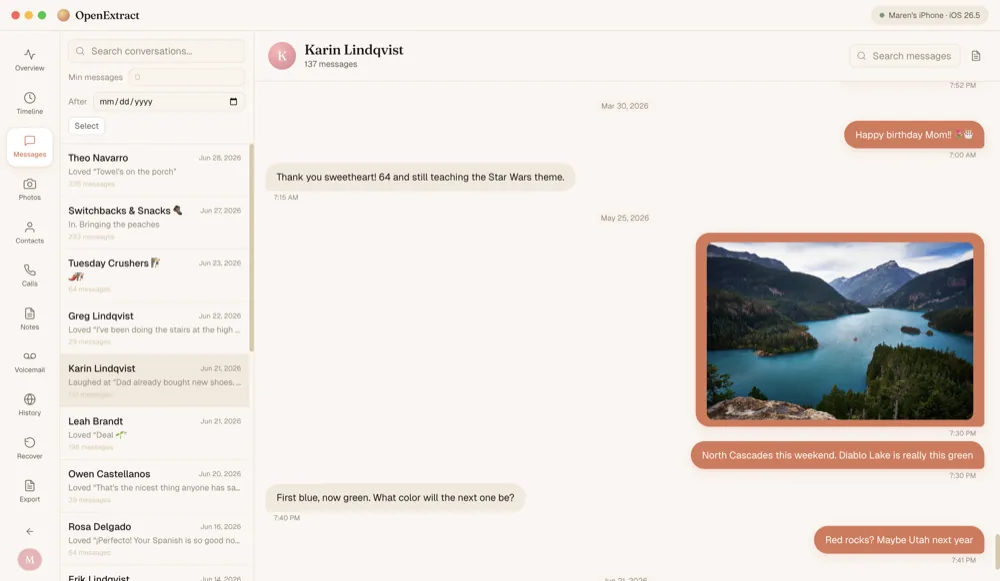
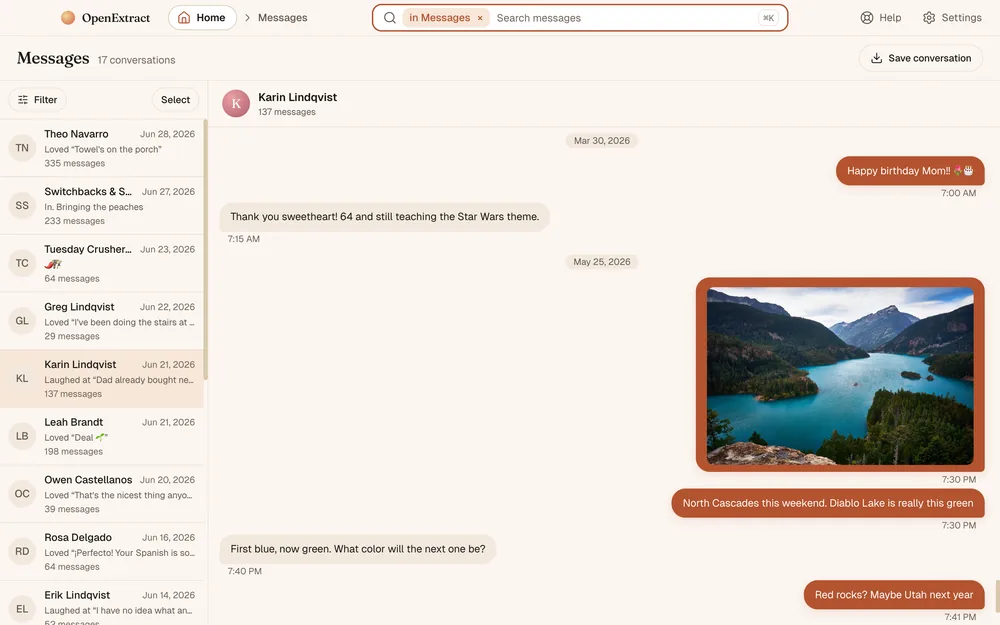
site: retake the screenshots in the 0.10.0 layout and update the copy around them
The site's app screenshots still showed the old icon rail, Overview, Contacts
and Browser history. Retake all of them on the synthetic Maren backup with the
run-openextract driver (throwaway profile, 1440x900): the home page, search,
a conversation opened at a search match, People, Address book, Messages,
group chat, Photos, an album, Calls, Voicemail, Notes, Web history, Timeline,
Year and Backup details.

- overview, contacts and history are renamed home, address-book and
  web-history; vercel.json redirects the old URLs so links to them, including
  the Flathub metainfo in v0.10.0, keep working.
- /screenshots shows 16 screens with new alt text and captions; the home page
  shows Search instead of Timeline and links to all 16; the Linux page shows
  the home page; JSON-LD screenshot points at home-2000.png.
- New shots are 1000x625 / 2000x1250, so width/height attributes change.
- README shows the home page and the same set of screens, and names Search,
  People, Calls and Address book in its feature list.
- Guides no longer hedge between versions: Save conversation, Save all,
  Recover deleted messages > Look for deleted messages, Messages > Select,
  and Backup details instead of a summary under Timeline.
- search-2000.png is for the Flathub listing, to be pointed at once this is
  live (the Flatpak check downloads every screenshot URL).

diff --git a/website/static/screenshots.html b/website/static/screenshots.html
@@ -5,13 +5,13 @@
   <meta name="viewport" content="width=device-width, initial-scale=1.0" />
   <meta name="theme-color" content="#faf6f1" />
   <title>Screenshots of OpenExtract, the free iPhone backup viewer</title>
-  <meta name="description" content="See OpenExtract's screens with a sample iPhone backup loaded: messages, photos, contacts, calls, notes, voicemail, Safari history and a timeline of everything." />
+  <meta name="description" content="See OpenExtract's screens with a sample iPhone backup loaded: the home page, search, messages, people, photos, the address book, calls, notes, voicemail, web history and a timeline of everything." />
   <link rel="canonical" href="https://www.openextract.app/screenshots" />
   <meta name="robots" content="index, follow, max-image-preview:large" />
   <meta property="og:type" content="website" />
   <meta property="og:url" content="https://www.openextract.app/screenshots" />
   <meta property="og:title" content="OpenExtract screenshots — a look inside" />
-  <meta property="og:description" content="Messages, photos, contacts, calls, notes, voicemail and more, from a sample iPhone backup." />
+  <meta property="og:description" content="Search, messages, people, photos, calls, notes, voicemail and more, from a sample iPhone backup." />
   <meta property="og:image" content="https://www.openextract.app/img/og-image.png" />
   <meta name="twitter:card" content="summary_large_image" />
   <link rel="icon" href="/favicon.ico" sizes="any" />
@@ -48,80 +48,115 @@
 
   <section class="gallery">
     <figure class="screen screen--wide">
-      <a class="screen__frame" href="/img/screens/overview-2000.webp">
-        <img src="/img/screens/overview-1000.webp" srcset="/img/screens/overview-1000.webp 1000w, /img/screens/overview-2000.webp 2000w" sizes="(max-width: 720px) calc(100vw - 48px), min(calc(100vw - 112px), 1088px)" width="1000" height="581" decoding="async" alt="OpenExtract's Overview of Maren's iPhone: 1,410 messages, 170 photos, 45 contacts, 166 calls, 25 notes and 9 voicemails, with her top conversations and photo stats." />
+      <a class="screen__frame" href="/img/screens/home-2000.webp">
+        <img src="/img/screens/home-1000.webp" srcset="/img/screens/home-1000.webp 1000w, /img/screens/home-2000.webp 2000w" sizes="(max-width: 720px) calc(100vw - 48px), min(calc(100vw - 112px), 1088px)" width="1000" height="625" decoding="async" alt="The home page for Maren's iPhone: tiles for 1,410 messages, 170 photos, 52 people, 45 address book cards, 166 calls, 25 notes and 9 voicemails, plus Web history, Timeline and Year, under a search box that runs across the top." />
       </a>
-      <figcaption><strong>Overview</strong>A count of everything in the backup, and who you message most.</figcaption>
+      <figcaption><strong>Home</strong>Everything in the backup on one page, most of it with a count. The box at the top searches all of it.</figcaption>
     </figure>
 
     <figure class="screen">
-      <a class="screen__frame" href="/img/screens/timeline-2000.webp">
-        <img src="/img/screens/timeline-1000.webp" srcset="/img/screens/timeline-1000.webp 1000w, /img/screens/timeline-2000.webp 2000w" sizes="(max-width: 720px) calc(100vw - 48px), 540px" width="1000" height="581" decoding="async" alt="The Timeline: messages, calls, photos, voicemails, notes and web visits in one list, newest first, with filters by type, person and date." />
+      <a class="screen__frame" href="/img/screens/search-2000.webp">
+        <img src="/img/screens/search-1000.webp" srcset="/img/screens/search-1000.webp 1000w, /img/screens/search-2000.webp 2000w" sizes="(max-width: 720px) calc(100vw - 48px), 540px" width="1000" height="625" decoding="async" alt="Search results for &ldquo;bread&rdquo; across the whole backup: 4 notes, 16 messages and 8 web pages, with the first note previewed on the right and every match highlighted." />
       </a>
-      <figcaption><strong>Timeline</strong>Messages, calls, photos, voicemails, notes and web visits in one list, by date. Filter by type, person or date range.</figcaption>
+      <figcaption><strong>Search</strong>One box searches messages, notes, calls, voicemail, people and web history at once. Pick a result to preview it.</figcaption>
+    </figure>
+
+    <figure class="screen">
+      <a class="screen__frame" href="/img/screens/search-match-2000.webp">
+        <img src="/img/screens/search-match-1000.webp" srcset="/img/screens/search-match-1000.webp 1000w, /img/screens/search-match-2000.webp 2000w" sizes="(max-width: 720px) calc(100vw - 48px), 540px" width="1000" height="625" decoding="async" alt="A conversation opened from a search result at the matching message, &ldquo;MAREN. IT'S A BREAD OVEN&rdquo;, with the word highlighted and arrows to step through the 7 matches in the thread." />
+      </a>
+      <figcaption><strong>Straight to the message</strong>A result opens the conversation at that exact message. Step through the other matches with the arrows.</figcaption>
+    </figure>
+
+    <figure class="screen">
+      <a class="screen__frame" href="/img/screens/people-2000.webp">
+        <img src="/img/screens/people-1000.webp" srcset="/img/screens/people-1000.webp 1000w, /img/screens/people-2000.webp 2000w" sizes="(max-width: 720px) calc(100vw - 48px), 540px" width="1000" height="625" loading="lazy" decoding="async" alt="Erik Lindqvist's page in People: 45 messages, 9 calls and a voicemail in one list by date, with a link to his card in the address book." />
+      </a>
+      <figcaption><strong>People</strong>Everyone you were in touch with, most in touch first. Open a person to see your messages, calls and voicemails with them together.</figcaption>
+    </figure>
+
+    <figure class="screen">
+      <a class="screen__frame" href="/img/screens/address-book-2000.webp">
+        <img src="/img/screens/address-book-1000.webp" srcset="/img/screens/address-book-1000.webp 1000w, /img/screens/address-book-2000.webp 2000w" sizes="(max-width: 720px) calc(100vw - 48px), 540px" width="1000" height="625" loading="lazy" decoding="async" alt="The Address book: 45 saved cards with names, companies, phone numbers and emails, each linking to that person&rsquo;s history." />
+      </a>
+      <figcaption><strong>Address book</strong>The saved contact cards, each linked to its history. Save them as vCard or CSV.</figcaption>
     </figure>
 
     <figure class="screen">
       <a class="screen__frame" href="/img/screens/messages-2000.webp">
-        <img src="/img/screens/messages-1000.webp" srcset="/img/screens/messages-1000.webp 1000w, /img/screens/messages-2000.webp 2000w" sizes="(max-width: 720px) calc(100vw - 48px), 540px" width="1000" height="581" loading="lazy" decoding="async" alt="A text conversation with Maren's mom, including a photo of Diablo Lake sent in the thread." />
+        <img src="/img/screens/messages-1000.webp" srcset="/img/screens/messages-1000.webp 1000w, /img/screens/messages-2000.webp 2000w" sizes="(max-width: 720px) calc(100vw - 48px), 540px" width="1000" height="625" loading="lazy" decoding="async" alt="A text conversation with Maren's mom, including a photo of Diablo Lake sent in the thread." />
       </a>
       <figcaption><strong>Messages</strong>Read any conversation, with the photos that were sent in it.</figcaption>
     </figure>
 
     <figure class="screen">
       <a class="screen__frame" href="/img/screens/group-chat-2000.webp">
-        <img src="/img/screens/group-chat-1000.webp" srcset="/img/screens/group-chat-1000.webp 1000w, /img/screens/group-chat-2000.webp 2000w" sizes="(max-width: 720px) calc(100vw - 48px), 540px" width="1000" height="581" loading="lazy" decoding="async" alt="A group chat called Switchbacks &amp; Snacks, with each message labeled by who sent it and a mountain photo in the thread." />
+        <img src="/img/screens/group-chat-1000.webp" srcset="/img/screens/group-chat-1000.webp 1000w, /img/screens/group-chat-2000.webp 2000w" sizes="(max-width: 720px) calc(100vw - 48px), 540px" width="1000" height="625" loading="lazy" decoding="async" alt="A group chat called Switchbacks &amp; Snacks, with other people's messages labeled by who sent them and a mountain photo in the thread." />
       </a>
       <figcaption><strong>Group chats</strong>Group threads show who said what.</figcaption>
     </figure>
 
     <figure class="screen">
       <a class="screen__frame" href="/img/screens/photos-2000.webp">
-        <img src="/img/screens/photos-1000.webp" srcset="/img/screens/photos-1000.webp 1000w, /img/screens/photos-2000.webp 2000w" sizes="(max-width: 720px) calc(100vw - 48px), 540px" width="1000" height="581" loading="lazy" decoding="async" alt="The Photos screen: a grid of landscape photos with the backup's albums listed alongside." />
+        <img src="/img/screens/photos-1000.webp" srcset="/img/screens/photos-1000.webp 1000w, /img/screens/photos-2000.webp 2000w" sizes="(max-width: 720px) calc(100vw - 48px), 540px" width="1000" height="625" loading="lazy" decoding="async" alt="The Photos screen: a grid of landscape photos with favorites starred and the backup's albums listed alongside." />
       </a>
       <figcaption><strong>Photos</strong>The whole camera roll, with favorites starred.</figcaption>
     </figure>
 
     <figure class="screen">
       <a class="screen__frame" href="/img/screens/album-2000.webp">
-        <img src="/img/screens/album-1000.webp" srcset="/img/screens/album-1000.webp 1000w, /img/screens/album-2000.webp 2000w" sizes="(max-width: 720px) calc(100vw - 48px), 540px" width="1000" height="581" loading="lazy" decoding="async" alt="The Yellowstone 2025 album open, showing 45 photos of hot springs, bison and waterfalls." />
+        <img src="/img/screens/album-1000.webp" srcset="/img/screens/album-1000.webp 1000w, /img/screens/album-2000.webp 2000w" sizes="(max-width: 720px) calc(100vw - 48px), 540px" width="1000" height="625" loading="lazy" decoding="async" alt="The Yellowstone 2025 album open, showing 45 photos of hot springs, bison and waterfalls." />
       </a>
       <figcaption><strong>Albums</strong>The albums you made on your phone, kept as they were.</figcaption>
     </figure>
 
     <figure class="screen">
-      <a class="screen__frame" href="/img/screens/contacts-2000.webp">
-        <img src="/img/screens/contacts-1000.webp" srcset="/img/screens/contacts-1000.webp 1000w, /img/screens/contacts-2000.webp 2000w" sizes="(max-width: 720px) calc(100vw - 48px), 540px" width="1000" height="581" loading="lazy" decoding="async" alt="The Contacts screen: cards with each person's name, company, phone number and email." />
+      <a class="screen__frame" href="/img/screens/calls-2000.webp">
+        <img src="/img/screens/calls-1000.webp" srcset="/img/screens/calls-1000.webp 1000w, /img/screens/calls-2000.webp 2000w" sizes="(max-width: 720px) calc(100vw - 48px), 540px" width="1000" height="625" loading="lazy" decoding="async" alt="The Calls screen: a table of calls with who, when, how long, whether it was incoming, outgoing or missed, and the app used." />
       </a>
-      <figcaption><strong>Contacts</strong>The address book, with an Export vCard button.</figcaption>
+      <figcaption><strong>Calls</strong>Every call with its date, length and direction, including FaceTime. Save the list as a spreadsheet (CSV).</figcaption>
     </figure>
 
     <figure class="screen">
-      <a class="screen__frame" href="/img/screens/calls-2000.webp">
-        <img src="/img/screens/calls-1000.webp" srcset="/img/screens/calls-1000.webp 1000w, /img/screens/calls-2000.webp 2000w" sizes="(max-width: 720px) calc(100vw - 48px), 540px" width="1000" height="581" loading="lazy" decoding="async" alt="The Calls screen: a table of calls with contact, date, duration, whether it was incoming, outgoing or missed, and the app used." />
+      <a class="screen__frame" href="/img/screens/voicemail-2000.webp">
+        <img src="/img/screens/voicemail-1000.webp" srcset="/img/screens/voicemail-1000.webp 1000w, /img/screens/voicemail-2000.webp 2000w" sizes="(max-width: 720px) calc(100vw - 48px), 540px" width="1000" height="625" loading="lazy" decoding="async" alt="The Voicemail screen: nine saved voicemails, each with the caller, date and length, and one opened to play." />
       </a>
-      <figcaption><strong>Call history</strong>Every call with its date, length and direction, including FaceTime. Export as CSV.</figcaption>
+      <figcaption><strong>Voicemail</strong>Saved voicemails with who called, when, and for how long. Play them or save the audio.</figcaption>
     </figure>
 
     <figure class="screen">
       <a class="screen__frame" href="/img/screens/notes-2000.webp">
-        <img src="/img/screens/notes-1000.webp" srcset="/img/screens/notes-1000.webp 1000w, /img/screens/notes-2000.webp 2000w" sizes="(max-width: 720px) calc(100vw - 48px), 540px" width="1000" height="581" loading="lazy" decoding="async" alt="The Notes screen with a note called National parks open, listing parks visited and planned." />
+        <img src="/img/screens/notes-1000.webp" srcset="/img/screens/notes-1000.webp 1000w, /img/screens/notes-2000.webp 2000w" sizes="(max-width: 720px) calc(100vw - 48px), 540px" width="1000" height="625" loading="lazy" decoding="async" alt="The Notes screen with a note called National parks open, listing parks visited and planned." />
       </a>
       <figcaption><strong>Notes</strong>Read any Apple Note and save it as text or PDF.</figcaption>
     </figure>
 
     <figure class="screen">
-      <a class="screen__frame" href="/img/screens/voicemail-2000.webp">
-        <img src="/img/screens/voicemail-1000.webp" srcset="/img/screens/voicemail-1000.webp 1000w, /img/screens/voicemail-2000.webp 2000w" sizes="(max-width: 720px) calc(100vw - 48px), 540px" width="1000" height="581" loading="lazy" decoding="async" alt="The Voicemail screen: nine saved voicemails, each with the caller, date and length." />
+      <a class="screen__frame" href="/img/screens/web-history-2000.webp">
+        <img src="/img/screens/web-history-1000.webp" srcset="/img/screens/web-history-1000.webp 1000w, /img/screens/web-history-2000.webp 2000w" sizes="(max-width: 720px) calc(100vw - 48px), 540px" width="1000" height="625" loading="lazy" decoding="async" alt="Web history: 357 page visits to 48 sites, with a bar chart of the most visited sites." />
       </a>
-      <figcaption><strong>Voicemail</strong>Saved voicemails with who called, when, and for how long. Play them or export the audio.</figcaption>
+      <figcaption><strong>Web history</strong>Pages visited in Safari and Firefox, the sites visited most, and the hours you browse.</figcaption>
     </figure>
 
     <figure class="screen">
-      <a class="screen__frame" href="/img/screens/history-2000.webp">
-        <img src="/img/screens/history-1000.webp" srcset="/img/screens/history-1000.webp 1000w, /img/screens/history-2000.webp 2000w" sizes="(max-width: 720px) calc(100vw - 48px), 540px" width="1000" height="581" loading="lazy" decoding="async" alt="Browser History: 357 Safari visits to 48 sites, with a bar chart of the most visited sites." />
+      <a class="screen__frame" href="/img/screens/timeline-2000.webp">
+        <img src="/img/screens/timeline-1000.webp" srcset="/img/screens/timeline-1000.webp 1000w, /img/screens/timeline-2000.webp 2000w" sizes="(max-width: 720px) calc(100vw - 48px), 540px" width="1000" height="625" loading="lazy" decoding="async" alt="The Timeline: 1,940 messages, calls, photos, voicemails, notes and web visits in one list, newest first, with filters by type, person and date." />
       </a>
-      <figcaption><strong>Browser history</strong>Safari visits, the sites visited most, and the hours you browse.</figcaption>
+      <figcaption><strong>Timeline</strong>Messages, calls, photos, voicemails, notes and web visits in one list, by date. Filter by type, person or date range.</figcaption>
+    </figure>
+
+    <figure class="screen">
+      <a class="screen__frame" href="/img/screens/year-2000.webp">
+        <img src="/img/screens/year-1000.webp" srcset="/img/screens/year-1000.webp 1000w, /img/screens/year-2000.webp 2000w" sizes="(max-width: 720px) calc(100vw - 48px), 540px" width="1000" height="625" loading="lazy" decoding="async" alt="The Year view for 2026: one square per day, darker on busier days, with filters by type and person." />
+      </a>
+      <figcaption><strong>Year</strong>A whole year at a glance, one square per day. Click a day to open it in the Timeline.</figcaption>
+    </figure>
+
+    <figure class="screen screen--wide">
+      <a class="screen__frame" href="/img/screens/details-2000.webp">
+        <img src="/img/screens/details-1000.webp" srcset="/img/screens/details-1000.webp 1000w, /img/screens/details-2000.webp 2000w" sizes="(max-width: 720px) calc(100vw - 48px), min(calc(100vw - 112px), 1088px)" width="1000" height="625" loading="lazy" decoding="async" alt="Backup details for Maren's iPhone: counts of messages, photos, address book cards, calls, notes and voicemails, messages sent and received, her top conversations, busiest day and photo stats." />
+      </a>
+      <figcaption><strong>Backup details</strong>The numbers behind the backup: what it holds, who you message most, and when.</figcaption>
     </figure>
   </section>
 

diff --git a/website/static/index.html b/website/static/index.html
@@ -42,7 +42,7 @@
     "operatingSystem": "Windows 10, Windows 11, macOS (Apple Silicon), Linux",
     "url": "https://www.openextract.app/",
     "image": "https://www.openextract.app/img/og-image.png",
-    "screenshot": "https://www.openextract.app/img/screens/overview-2000.png",
+    "screenshot": "https://www.openextract.app/img/screens/home-2000.png",
     "downloadUrl": "https://github.com/charleswest775/openextract/releases",
     "license": "https://opensource.org/licenses/MIT",
     "isAccessibleForFree": true,
@@ -240,31 +240,31 @@
       <div class="screens__lede">Real screens from OpenExtract, opened on a sample backup. Maren isn't a real person, and her photos are public domain.</div>
     </div>
     <figure class="screen">
-      <a class="screen__frame" href="/img/screens/overview-2000.webp">
-        <img src="/img/screens/overview-1000.webp" srcset="/img/screens/overview-1000.webp 1000w, /img/screens/overview-2000.webp 2000w" sizes="(max-width: 720px) calc(100vw - 48px), calc(100vw - 112px)" width="1000" height="581" loading="lazy" decoding="async" alt="OpenExtract's Overview of Maren's iPhone: 1,410 messages, 170 photos, 45 contacts, 166 calls, 25 notes and 9 voicemails, with her top conversations and photo stats." />
+      <a class="screen__frame" href="/img/screens/home-2000.webp">
+        <img src="/img/screens/home-1000.webp" srcset="/img/screens/home-1000.webp 1000w, /img/screens/home-2000.webp 2000w" sizes="(max-width: 720px) calc(100vw - 48px), calc(100vw - 112px)" width="1000" height="625" loading="lazy" decoding="async" alt="The home page for Maren's iPhone: tiles for 1,410 messages, 170 photos, 52 people, 45 address book cards, 166 calls, 25 notes and 9 voicemails, plus Web history, Timeline and Year, under a search box that runs across the top." />
       </a>
     </figure>
     <div class="screens__grid">
       <figure class="screen">
+        <a class="screen__frame" href="/img/screens/search-2000.webp">
+          <img src="/img/screens/search-1000.webp" srcset="/img/screens/search-1000.webp 1000w, /img/screens/search-2000.webp 2000w" sizes="(max-width: 1024px) calc(100vw - 112px), 33vw" width="1000" height="625" loading="lazy" decoding="async" alt="Search results for &ldquo;bread&rdquo; across the whole backup: notes, messages and web pages, with the first note previewed and every match highlighted." />
+        </a>
+        <figcaption><strong>Search</strong>One box searches messages, notes, calls, voicemail and more.</figcaption>
+      </figure>
+      <figure class="screen">
         <a class="screen__frame" href="/img/screens/messages-2000.webp">
-          <img src="/img/screens/messages-1000.webp" srcset="/img/screens/messages-1000.webp 1000w, /img/screens/messages-2000.webp 2000w" sizes="(max-width: 1024px) calc(100vw - 112px), 33vw" width="1000" height="581" loading="lazy" decoding="async" alt="A text conversation with Maren's mom, including a photo of Diablo Lake sent in the thread." />
+          <img src="/img/screens/messages-1000.webp" srcset="/img/screens/messages-1000.webp 1000w, /img/screens/messages-2000.webp 2000w" sizes="(max-width: 1024px) calc(100vw - 112px), 33vw" width="1000" height="625" loading="lazy" decoding="async" alt="A text conversation with Maren's mom, including a photo of Diablo Lake sent in the thread." />
         </a>
         <figcaption><strong>Messages</strong>Every conversation, with the photos sent in it.</figcaption>
       </figure>
       <figure class="screen">
         <a class="screen__frame" href="/img/screens/photos-2000.webp">
-          <img src="/img/screens/photos-1000.webp" srcset="/img/screens/photos-1000.webp 1000w, /img/screens/photos-2000.webp 2000w" sizes="(max-width: 1024px) calc(100vw - 112px), 33vw" width="1000" height="581" loading="lazy" decoding="async" alt="The Photos screen: a grid of landscape photos with the backup's albums listed alongside." />
+          <img src="/img/screens/photos-1000.webp" srcset="/img/screens/photos-1000.webp 1000w, /img/screens/photos-2000.webp 2000w" sizes="(max-width: 1024px) calc(100vw - 112px), 33vw" width="1000" height="625" loading="lazy" decoding="async" alt="The Photos screen: a grid of landscape photos with favorites starred and the backup's albums listed alongside." />
         </a>
         <figcaption><strong>Photos</strong>The whole camera roll, sorted into the albums you made.</figcaption>
       </figure>
-      <figure class="screen">
-        <a class="screen__frame" href="/img/screens/timeline-2000.webp">
-          <img src="/img/screens/timeline-1000.webp" srcset="/img/screens/timeline-1000.webp 1000w, /img/screens/timeline-2000.webp 2000w" sizes="(max-width: 1024px) calc(100vw - 112px), 33vw" width="1000" height="581" loading="lazy" decoding="async" alt="The Timeline: messages, calls, photos, voicemails, notes and web visits in one list, newest first." />
-        </a>
-        <figcaption><strong>Timeline</strong>Messages, calls, photos and more in one list, by date.</figcaption>
-      </figure>
     </div>
-    <a class="screens__more" href="/screenshots">See all 11 screens →</a>
+    <a class="screens__more" href="/screenshots">See all 16 screens →</a>
   </section>
 
   <section class="how">

diff --git a/website/static/use-cases/iphone-backup-extractor-linux.html b/website/static/use-cases/iphone-backup-extractor-linux.html
@@ -43,7 +43,7 @@
       "applicationSubCategory": "DataExtraction",
       "operatingSystem": "Linux (x86-64): .deb for Ubuntu 22.04+ and Debian 12+, AppImage for other distributions",
       "url": "https://www.openextract.app/",
-      "screenshot": "https://www.openextract.app/img/screens/overview-2000.png",
+      "screenshot": "https://www.openextract.app/img/screens/home-2000.png",
       "downloadUrl": "https://github.com/charleswest775/openextract/releases",
       "license": "https://opensource.org/licenses/MIT",
       "isAccessibleForFree": true,
@@ -86,10 +86,10 @@
       <p>Most iPhone tools stop at Mac and Windows. iMazing's own <a href="https://imazing.com/faq/general-information">FAQ</a> calls it "an app for macOS and Windows", and its <a href="https://imazing.com/tech-specs">tech specs</a> list no Linux version. If Linux is the computer you use, that leaves you looking for something else.</p>
       <p>OpenExtract builds for Linux with every release. It's the same app as on Mac and Windows, with the same screens and exports, and the parsing engine's tests run on Linux, macOS and Windows on every change.</p>
       <figure class="screen">
-        <a class="screen__frame" href="/img/screens/overview-2000.webp">
-          <img src="/img/screens/overview-1000.webp" srcset="/img/screens/overview-1000.webp 1000w, /img/screens/overview-2000.webp 2000w" sizes="(max-width: 720px) calc(100vw - 48px), 720px" width="1000" height="581" loading="lazy" decoding="async" alt="OpenExtract's Overview of a sample iPhone backup: counts of messages, photos, contacts, calls, notes and voicemails, with the top conversations." />
+        <a class="screen__frame" href="/img/screens/home-2000.webp">
+          <img src="/img/screens/home-1000.webp" srcset="/img/screens/home-1000.webp 1000w, /img/screens/home-2000.webp 2000w" sizes="(max-width: 720px) calc(100vw - 48px), 720px" width="1000" height="625" loading="lazy" decoding="async" alt="The home page of a sample iPhone backup in OpenExtract: tiles with counts of messages, photos, people, address book cards, calls, notes and voicemails, under a search box for the whole backup." />
         </a>
-        <figcaption><strong>The Overview of a backup</strong>A sample backup in OpenExtract. <a href="/screenshots">See every screen</a>.</figcaption>
+        <figcaption><strong>A backup's home page</strong>A sample backup in OpenExtract. <a href="/screenshots">See every screen</a>.</figcaption>
       </figure>
 
       <h2>Install it</h2>

diff --git a/website/static/use-cases/free-iphone-backup-viewer.html b/website/static/use-cases/free-iphone-backup-viewer.html
@@ -43,7 +43,7 @@
       "applicationSubCategory": "DataExtraction",
       "operatingSystem": "Windows 10, Windows 11, macOS (Apple Silicon), Linux",
       "url": "https://www.openextract.app/",
-      "screenshot": "https://www.openextract.app/img/screens/overview-2000.png",
+      "screenshot": "https://www.openextract.app/img/screens/home-2000.png",
       "downloadUrl": "https://github.com/charleswest775/openextract/releases",
       "license": "https://opensource.org/licenses/MIT",
       "isAccessibleForFree": true,
@@ -87,7 +87,7 @@
       <p>OpenExtract reads that index and puts the backup back together, so you see it much the way you saw it on the phone: conversations as chat bubbles, photos in their albums, voicemails you can play.</p>
       <figure class="screen">
         <a class="screen__frame" href="/img/screens/timeline-2000.webp">
-          <img src="/img/screens/timeline-1000.webp" srcset="/img/screens/timeline-1000.webp 1000w, /img/screens/timeline-2000.webp 2000w" sizes="(max-width: 720px) calc(100vw - 48px), 720px" width="1000" height="581" loading="lazy" decoding="async" alt="The Timeline in OpenExtract: messages, calls, photos, voicemails, notes and web visits from a sample backup in one list, newest first." />
+          <img src="/img/screens/timeline-1000.webp" srcset="/img/screens/timeline-1000.webp 1000w, /img/screens/timeline-2000.webp 2000w" sizes="(max-width: 720px) calc(100vw - 48px), 720px" width="1000" height="625" loading="lazy" decoding="async" alt="The Timeline in OpenExtract: messages, calls, photos, voicemails, notes and web visits from a sample backup in one list, newest first." />
         </a>
         <figcaption><strong>The Timeline</strong>Everything in a sample backup, in one list by date. <a href="/screenshots">See every screen</a>.</figcaption>
       </figure>

diff --git a/website/static/use-cases/save-voicemails-from-iphone-backup.html b/website/static/use-cases/save-voicemails-from-iphone-backup.html
@@ -47,7 +47,7 @@
       "applicationSubCategory": "DataExtraction",
       "operatingSystem": "Windows 10, Windows 11, macOS (Apple Silicon), Linux",
       "url": "https://www.openextract.app/",
-      "screenshot": "https://www.openextract.app/img/screens/overview-2000.png",
+      "screenshot": "https://www.openextract.app/img/screens/home-2000.png",
       "downloadUrl": "https://github.com/charleswest775/openextract/releases",
       "license": "https://opensource.org/licenses/MIT",
       "isAccessibleForFree": true,
@@ -185,7 +185,7 @@
       <div class="uc-step__num" style="color: var(--coral);">05</div>
       <div>
         <h2>Save them to a folder</h2>
-        <p>At the top right of the Voicemail screen, click the button that saves them all (<strong>Export audio</strong> or <strong>Save all</strong>, depending on your version) and choose a folder. OpenExtract saves an <code>audio</code> folder with one file per voicemail, named with the caller and the date, and a <code>voicemails.csv</code> list with the date, caller and length of each one. The dates in the file names and the list are in UTC, so a voicemail left in the evening can show the next day's date.</p>
+        <p>At the top right of the Voicemail screen, click <strong>Save all</strong> and choose a folder. OpenExtract saves an <code>audio</code> folder with one file per voicemail, named with the caller and the date, and a <code>voicemails.csv</code> list with the date, caller and length of each one. The dates in the file names and the list are in UTC, so a voicemail left in the evening can show the next day's date.</p>
       </div>
     </div>
     <div class="uc-step">

diff --git a/website/static/use-cases/print-text-messages-for-court.html b/website/static/use-cases/print-text-messages-for-court.html
@@ -47,7 +47,7 @@
       "applicationSubCategory": "DataExtraction",
       "operatingSystem": "Windows 10, Windows 11, macOS (Apple Silicon), Linux",
       "url": "https://www.openextract.app/",
-      "screenshot": "https://www.openextract.app/img/screens/overview-2000.png",
+      "screenshot": "https://www.openextract.app/img/screens/home-2000.png",
       "downloadUrl": "https://github.com/charleswest775/openextract/releases",
       "license": "https://opensource.org/licenses/MIT",
       "isAccessibleForFree": true,
@@ -185,7 +185,7 @@
       <div class="uc-step__num" style="color: var(--coral);">05</div>
       <div>
         <h2>Export it</h2>
-        <p>Click the save button at the top right (it may be just an icon) and choose PDF, HTML or plain text. If a <strong>Save</strong> button comes up, click it. Then pick a folder. PDF and HTML look like a chat, with the sender's name above each message you received, and the PDF includes the photos. A text file starts each message on a new line, with its timestamp and the sender ("me" for your own messages). The file is named after the conversation and the dates it covers.</p>
+        <p>Click <strong>Save conversation</strong> at the top right, choose PDF, HTML or plain text, and click <strong>Save</strong>. Then pick a folder. PDF and HTML look like a chat, with the sender's name above each message you received, and the PDF includes the photos. A text file starts each message on a new line, with its timestamp and the sender ("me" for your own messages). The file is named after the conversation and the dates it covers.</p>
       </div>
     </div>
     <div class="uc-step">

diff --git a/website/static/use-cases/recover-deleted-text-messages-iphone.html b/website/static/use-cases/recover-deleted-text-messages-iphone.html
@@ -47,7 +47,7 @@
       "applicationSubCategory": "DataExtraction",
       "operatingSystem": "Windows 10, Windows 11, macOS (Apple Silicon), Linux",
       "url": "https://www.openextract.app/",
-      "screenshot": "https://www.openextract.app/img/screens/overview-2000.png",
+      "screenshot": "https://www.openextract.app/img/screens/home-2000.png",
       "downloadUrl": "https://github.com/charleswest775/openextract/releases",
       "license": "https://opensource.org/licenses/MIT",
       "isAccessibleForFree": true,
@@ -177,7 +177,7 @@
       <div class="uc-step__num" style="color: var(--plum);">04</div>
       <div>
         <h2>Scan the backup for deleted messages</h2>
-        <p>Open <strong>Recover</strong> (in newer versions it's <strong>Recover deleted messages</strong>, under Tools on the backup's home page) and start the scan. It looks for two things: messages that were in iOS's Recently Deleted list when the backup was made (iOS 16 and later), shown in their original conversation, and leftover messages from conversations that were deleted, grouped by the other person.</p>
+        <p>On the backup's home page, under <strong>Tools</strong>, click <strong>Recover deleted messages</strong>, then <strong>Look for deleted messages</strong>. The scan looks for two things: messages that were in iOS's Recently Deleted list when the backup was made (iOS 16 and later), shown in their original conversation, and leftover messages from conversations that were deleted, grouped by the other person.</p>
       </div>
     </div>
     <div class="uc-step">

diff --git a/website/static/use-cases/view-iphone-backup-on-windows.html b/website/static/use-cases/view-iphone-backup-on-windows.html
@@ -47,7 +47,7 @@
       "applicationSubCategory": "DataExtraction",
       "operatingSystem": "Windows 10, Windows 11, macOS (Apple Silicon), Linux",
       "url": "https://www.openextract.app/",
-      "screenshot": "https://www.openextract.app/img/screens/overview-2000.png",
+      "screenshot": "https://www.openextract.app/img/screens/home-2000.png",
       "downloadUrl": "https://github.com/charleswest775/openextract/releases",
       "license": "https://opensource.org/licenses/MIT",
       "isAccessibleForFree": true,
@@ -231,7 +231,8 @@
         <li><strong>Contacts, calls and notes</strong>: the address book, the call log including FaceTime, and Apple Notes.</li>
         <li><strong>Voicemail</strong>: saved voicemails you can play and save.</li>
         <li><strong>Web history</strong>: pages visited in Safari and Firefox, and the sites visited most.</li>
-        <li><strong>Timeline</strong>: messages, calls, photos and more in one list by date, plus a summary screen with counts and patterns for the whole backup.</li>
+        <li><strong>Timeline</strong>: messages, calls, photos and more in one list by date.</li>
+        <li><strong>Backup details</strong>: counts and patterns for the whole backup, under Tools on the home page.</li>
       </ul>
       <p>Some things, such as call history and web history, are only in encrypted backups. You can see each screen on the <a href="/screenshots">screenshots page</a>, taken with a made-up test backup.</p>
 

diff --git a/website/static/use-cases/export-imessage-to-pdf.html b/website/static/use-cases/export-imessage-to-pdf.html
@@ -47,7 +47,7 @@
       "applicationSubCategory": "DataExtraction",
       "operatingSystem": "Windows 10, Windows 11, macOS (Apple Silicon), Linux",
       "url": "https://www.openextract.app/",
-      "screenshot": "https://www.openextract.app/img/screens/overview-2000.png",
+      "screenshot": "https://www.openextract.app/img/screens/home-2000.png",
       "downloadUrl": "https://github.com/charleswest775/openextract/releases",
       "license": "https://opensource.org/licenses/MIT",
       "isAccessibleForFree": true,
@@ -177,7 +177,7 @@
       <div class="uc-step__num" style="color: var(--plum);">04</div>
       <div>
         <h2>Export the conversation as PDF</h2>
-        <p>Open <strong>Messages</strong> and click the conversation. Click the save button at the top right (it may be just an icon) and choose the PDF option. If a <strong>Save</strong> button comes up, click it. Pick a folder. The PDF is saved there, named after the conversation.</p>
+        <p>Open <strong>Messages</strong> and click the conversation. Click <strong>Save conversation</strong> at the top right, choose <strong>Readable document</strong> (that&rsquo;s the PDF) and click <strong>Save</strong>. Pick a folder. The PDF is saved there, named after the conversation.</p>
       </div>
     </div>
     <div class="uc-step">

diff --git a/website/static/use-cases/save-iphone-texts-to-windows-pc.html b/website/static/use-cases/save-iphone-texts-to-windows-pc.html
@@ -47,7 +47,7 @@
       "applicationSubCategory": "DataExtraction",
       "operatingSystem": "Windows 10, Windows 11, macOS (Apple Silicon), Linux",
       "url": "https://www.openextract.app/",
-      "screenshot": "https://www.openextract.app/img/screens/overview-2000.png",
+      "screenshot": "https://www.openextract.app/img/screens/home-2000.png",
       "downloadUrl": "https://github.com/charleswest775/openextract/releases",
       "license": "https://opensource.org/licenses/MIT",
       "isAccessibleForFree": true,
@@ -184,7 +184,7 @@
       <div class="uc-step__num" style="color: var(--coral);">05</div>
       <div>
         <h2>Save one conversation</h2>
-        <p>Open <strong>Messages</strong> and click a conversation. Click the save button at the top right (it may be just an icon) and choose PDF, HTML, CSV or plain text. If a <strong>Save</strong> button comes up, click it. Pick a folder, and the file is named after the conversation and its dates.</p>
+        <p>Open <strong>Messages</strong> and click a conversation. Click <strong>Save conversation</strong> at the top right, choose PDF, HTML, CSV or plain text, and click <strong>Save</strong>. Pick a folder, and the file is named after the conversation and its dates.</p>
       </div>
     </div>
     <div class="uc-step">

diff --git a/website/static/use-cases/export-iphone-messages.html b/website/static/use-cases/export-iphone-messages.html
@@ -79,14 +79,14 @@
       <div class="uc-step__num" style="color: var(--plum);">04</div>
       <div>
         <h2>Pick the threads you want</h2>
-        <p>You'll see every conversation — individual and group, iMessage and SMS. Click any thread to preview. Tick the ones you want to export.</p>
+        <p>On the backup's home page, click <strong>Messages</strong>. You'll see every conversation — individual and group, iMessage and SMS. Click any thread to read it. To save several at once, click <strong>Select</strong> and tick the ones you want.</p>
       </div>
     </div>
     <div class="uc-step">
       <div class="uc-step__num" style="color: var(--coral);">05</div>
       <div>
         <h2>Export as PDF, HTML, or CSV</h2>
-        <p>PDF looks like a printed chat, HTML is a browsable archive with images, CSV is one row per message for analysis. Files land on your Desktop.</p>
+        <p>Click <strong>Save conversation</strong>, or <strong>Save 3 conversations</strong> if you ticked three. Choose PDF, HTML, CSV or plain text, click <strong>Save</strong>, and pick a folder. PDF looks like a printed chat, HTML opens in any browser, and CSV is one row per message for analysis.</p>
       </div>
     </div>
   </section>

diff --git a/website/static/use-cases/free-imazing-alternative.html b/website/static/use-cases/free-imazing-alternative.html
@@ -52,7 +52,7 @@
       <p>That's what OpenExtract is. Nothing else — no music sync, no app management, no live device browsing. Just: point it at a backup, get the data out.</p>
       <figure class="screen">
         <a class="screen__frame" href="/img/screens/messages-2000.webp">
-          <img src="/img/screens/messages-1000.webp" srcset="/img/screens/messages-1000.webp 1000w, /img/screens/messages-2000.webp 2000w" sizes="(max-width: 720px) calc(100vw - 48px), 720px" width="1000" height="581" loading="lazy" decoding="async" alt="A text conversation in OpenExtract, opened from a sample iPhone backup, with a photo sent in the thread." />
+          <img src="/img/screens/messages-1000.webp" srcset="/img/screens/messages-1000.webp 1000w, /img/screens/messages-2000.webp 2000w" sizes="(max-width: 720px) calc(100vw - 48px), 720px" width="1000" height="625" loading="lazy" decoding="async" alt="A text conversation in OpenExtract, opened from a sample iPhone backup, with a photo sent in the thread." />
         </a>
         <figcaption><strong>Messages, opened from a backup</strong>A sample backup in OpenExtract. <a href="/screenshots">See every screen</a>.</figcaption>
       </figure>
